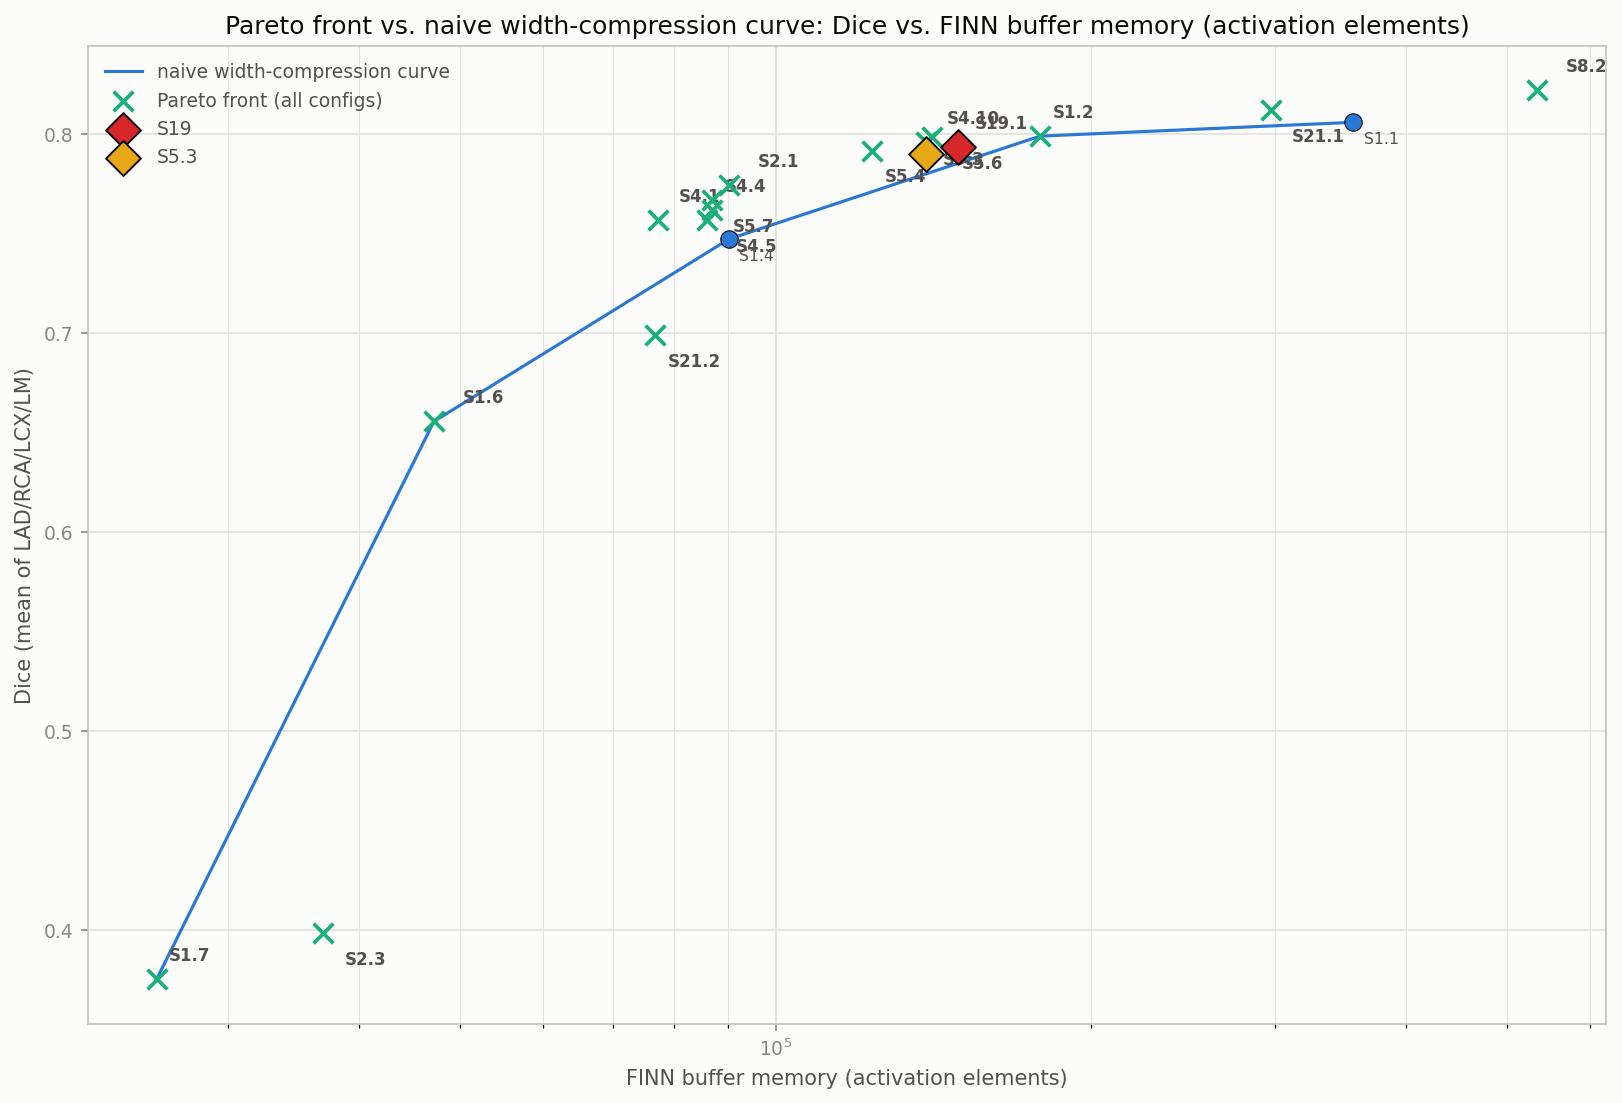
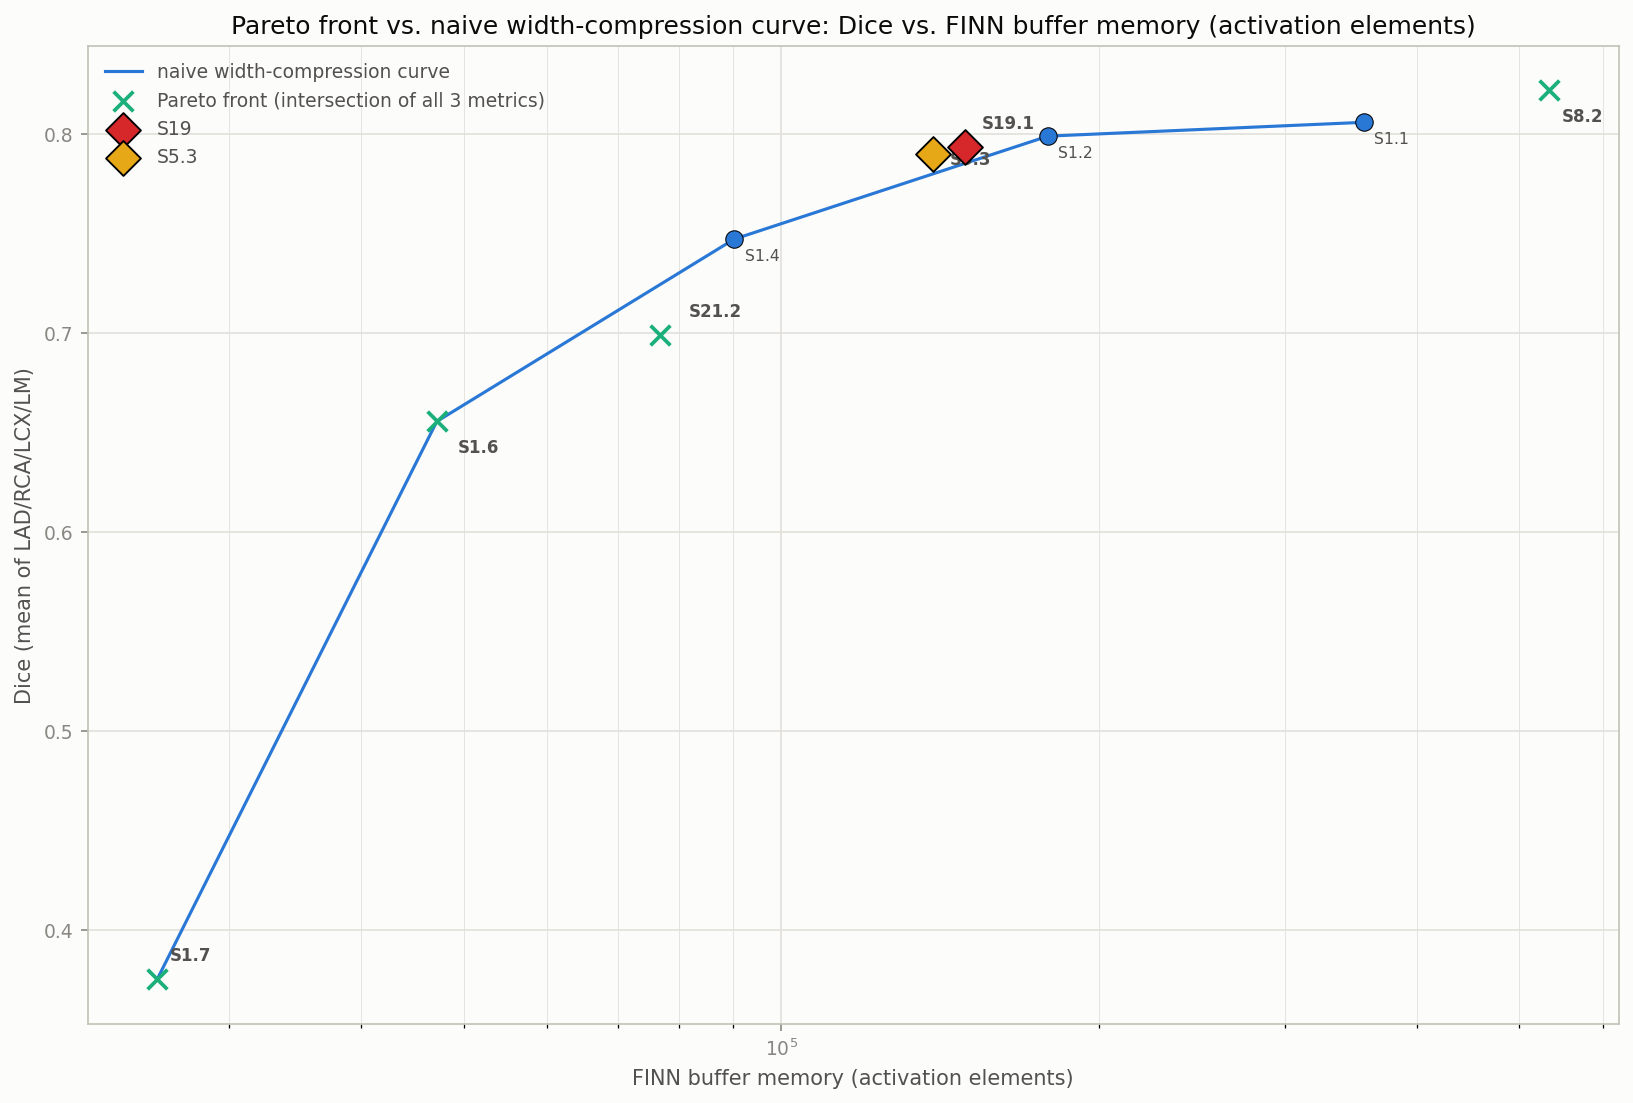
Final plots: Pareto front is now the intersection across all 3 metrics, shown consistently in each figure
Previously each of the three figures (params/macs/mem_elements) computed
and plotted its own independent per-metric Pareto front, so a config could
appear as a front point on one figure and simply vanish from another with
no visual link between them. Pareto-optimality is now computed per metric
as before, but the three per-metric front sets are intersected
(intersection_pareto_configs) into one shortlist -- configs Pareto-optimal
on params AND macs AND mem_elements simultaneously -- and that same,
stricter shortlist (4 configs currently: S1.6, S1.7, S21.2, S8.2) is what's
drawn as X markers in all three figures. main() now computes pareto_eligible
and the intersection once and threads them into all three _plot_metric
calls, rather than each call recomputing its own front internally.

diff --git a/compression/plot_final_width_comparison.py b/compression/plot_final_width_comparison.py
@@ -10,8 +10,14 @@ everything-at-once view this is a focused derivative of).
 Pareto front = the standard efficiency-frontier definition: sort by cost
 ascending, keep a point only if its dice strictly exceeds every
 cheaper-or-equal point's dice seen so far (a "staircase" of non-dominated
-points). Computed separately per metric, since a config Pareto-optimal in
-params need not be Pareto-optimal in MACs or memory elements too.
+points). Computed separately per metric (a config Pareto-optimal in params
+need not be Pareto-optimal in MACs or memory elements too), then the SAME
+markers -- the strict INTERSECTION of all three per-metric fronts, i.e.
+only configs Pareto-optimal on params AND macs AND mem_elements at once --
+are drawn in all three figures. A config that's cheap on one axis but not
+the others isn't a genuine all-around win, so it's left off; the same,
+narrower shortlist of true all-around contenders is what's shown
+consistently across all three figures.
 
 The naive baseline curve is drawn as plain straight-line (piecewise-linear)
 segments, not a smoothing spline -- see plot_all_configs.py's own module
@@ -120,15 +126,27 @@ def pareto_front(df: pd.DataFrame, x_col: str) -> pd.DataFrame:
     return pd.DataFrame(keep)
 
 
-def _plot_metric(named: pd.DataFrame, naive: pd.DataFrame, x_col: str, x_label: str, out_path: Path) -> None:
+def intersection_pareto_configs(pareto_eligible: pd.DataFrame, metric_cols: tuple[str, ...]) -> set[str]:
+    """Configs that are Pareto-optimal on EVERY one of metric_cols
+    simultaneously -- the strict intersection, not the union, of the
+    per-metric fronts. This is the shortlist drawn (consistently) across
+    all three figures. A config missing any of the metrics can't be
+    verified Pareto-optimal on it, so it's excluded from the intersection
+    by construction (pareto_front's own dropna)."""
+    fronts = [set(pareto_front(pareto_eligible, col)["config_name"]) for col in metric_cols]
+    return set.intersection(*fronts) if fronts else set()
+
+
+def _plot_metric(named: pd.DataFrame, naive: pd.DataFrame, pareto_eligible: pd.DataFrame,
+                  front_configs: set[str], x_col: str, x_label: str, out_path: Path) -> None:
     import matplotlib.pyplot as plt
 
     fig, ax = plt.subplots(figsize=(11, 7.5), facecolor=SURFACE)
     _style_axes(ax)
 
     naive_sorted = naive.dropna(subset=[x_col, "dice"]).sort_values(x_col)
-    pareto_eligible = named[~named["config_name"].isin(UNFAITHFUL_TRAINING_CONFIGS)]
-    front = pareto_front(pareto_eligible, x_col)
+    front = (pareto_eligible[pareto_eligible["config_name"].isin(front_configs)]
+              .dropna(subset=[x_col, "dice"]).sort_values(x_col))
     # A naive point that's ALSO Pareto-optimal (e.g. the naive curve's own
     # cheapest/most-efficient points often are) gets its marker+label drawn
     # once below, from the Pareto loop -- skip it here so it isn't
@@ -156,7 +174,7 @@ def _plot_metric(named: pd.DataFrame, naive: pd.DataFrame, x_col: str, x_label: 
         # Lowercase "x" -- matplotlib's thin, unfilled line-cross marker
         # (like a text "X" glyph), not the bold uppercase "X" filled marker.
         ax.scatter(front_other[x_col], front_other["dice"], color=PARETO_COLOR, s=90, zorder=5,
-                   marker="x", linewidths=1.8, label="Pareto front (all configs)")
+                   marker="x", linewidths=1.8, label="Pareto front (intersection of all 3 metrics)")
         # Alternate the label offset up/down (and vary horizontal reach a
         # little) so densely-packed Pareto points -- common near the
         # "knee" of the curve where several architectures land close
@@ -210,11 +228,18 @@ def main() -> int:
         print(f"No {NAIVE_STAGE} rows found.")
         return 1
 
+    pareto_eligible = named[~named["config_name"].isin(UNFAITHFUL_TRAINING_CONFIGS)]
+    metric_cols = ("params", "macs", "mem_elements")
+    front_configs = intersection_pareto_configs(pareto_eligible, metric_cols)
+    print(f"Pareto front (intersection of {metric_cols}): {len(front_configs)} configs")
+
     args.out_dir.mkdir(parents=True, exist_ok=True)
-    _plot_metric(named, naive, "params", "Parameters", args.out_dir / "dice_vs_params_final.png")
-    _plot_metric(named, naive, "macs", "MACs", args.out_dir / "dice_vs_macs_final.png")
-    _plot_metric(named, naive, "mem_elements", "FINN buffer memory (activation elements)",
-                 args.out_dir / "dice_vs_mem_elements_final.png")
+    _plot_metric(named, naive, pareto_eligible, front_configs, "params", "Parameters",
+                 args.out_dir / "dice_vs_params_final.png")
+    _plot_metric(named, naive, pareto_eligible, front_configs, "macs", "MACs",
+                 args.out_dir / "dice_vs_macs_final.png")
+    _plot_metric(named, naive, pareto_eligible, front_configs, "mem_elements",
+                 "FINN buffer memory (activation elements)", args.out_dir / "dice_vs_mem_elements_final.png")
     return 0
 
 
